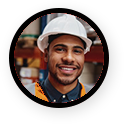
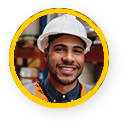
small screen optimise

Changed region(s): [[0.0726, 0.0484, 0.8952, 0.8952]]

diff --git a/index.html b/index.html
@@ -224,7 +224,7 @@
                       <br><br>
                       With a focus on excellence, professionalism, and customer satisfaction, we bring your visions to life, ensuring every project reflects craftsmanship and attention to detail.
                     </p>
-                    <div class="slider-btn mt-40">
+                    <div class="slider-btn readers' mt-40">
                       <a
                         href="#"
                         class="btn ss-btn"
@@ -1735,8 +1735,8 @@ At Nkways Home Improvement and Maintenance, quality is at the heart of everythin
           <div class="row">
             <div class="col-12">
               <div class="copyright-text text-center">
-                <p>&copy; Copyright by Nkways Homes | Designed by <a href="https://postiview.com/">PostiView</a></p>
-                <!-- <p>&copy; Copyright by Nkways Homes | Designed by <a href="https://postiview.com/">PostiView</a></p> -->
+                <p>&copy; Copyright by Nkways Homes | Designed by <a href="https://postiview.com/" target="_blank">PostiView</a></p>
+                <!-- <p>&copy; Copyright by Nkways Homes | Designed by <a href="https://postiview.com/" target="_blank">PostiView</a></p> -->
               </div>
             </div>
           </div>

diff --git a/flooring.html b/flooring.html
@@ -214,7 +214,7 @@
                   <h2>Elegant Flooring Upgrades </h2>
                 </div>
                 <nav aria-label="breadcrumb">
-                  <ol class="breadcrumb">
+                  <ol class="breadcrumb" >
                     <li class="breadcrumb-item">
                       <a href="index.html">Home</a>
                     </li>
@@ -628,7 +628,7 @@
           <div class="row">
             <div class="col-12">
               <div class="copyright-text text-center">
-                <p>&copy; Copyright by Nkways Homes | Designed by <a href="https://postiview.com/">PostiView</a></p>
+                <p>&copy; Copyright by Nkways Homes | Designed by <a href="https://postiview.com/" target="_blank">PostiView</a></p>
               </div>
             </div>
           </div>

diff --git a/css/style.css b/css/style.css
@@ -6832,4 +6832,36 @@ color: #181f3b !important;
     bottom: 100px;
     right: 10px;
   }
+ 
+}
+
+@media (max-width: 320px) {
+  #contact-form4 input {
+    width: 70%;
+  }
+  .slider-btn {
+    margin-bottom: 50px !important;
+}
+.slider-content > span {
+  margin-top: 30px !important;
+}
+.readers {
+  margin-top: -32px !important;
+}
+
+.slider-bg {
+  background-position: left !important;
+}
+#floating_btn {
+  bottom: 89px;
+  right: 18px;
+  width: 47px;
+  height: 60px;
+}
+}
+@media (max-width: 768px) {
+  .contact-bg {
+    background-position: left !important;
+}
+
 }

diff --git a/blog.html b/blog.html
@@ -1084,7 +1084,7 @@
           <div class="row">
             <div class="col-12">
               <div class="copyright-text text-center">
-                <p>&copy; Copyright by Nkways Homes | Designed by <a href="https://postiview.com/">PostiView</a></p>
+                <p>&copy; Copyright by Nkways Homes | Designed by <a href="https://postiview.com/" target="_blank">PostiView</a></p>
               </div>
             </div>
           </div>

diff --git a/index-2.html b/index-2.html
@@ -1373,7 +1373,7 @@
           <div class="row">
             <div class="col-12">
               <div class="copyright-text text-center">
-                <p>&copy; Copyright by Nkways Homes | Designed by <a href="https://postiview.com/">PostiView</a></p>
+                <p>&copy; Copyright by Nkways Homes | Designed by <a href="https://postiview.com/" target="_blank">PostiView</a></p>
               </div>
             </div>
           </div>

diff --git a/index-3.html b/index-3.html
@@ -1717,7 +1717,7 @@
           <div class="row">
             <div class="col-12">
               <div class="copyright-text text-center">
-                <p>&copy; Copyright by Nkways Homes | Designed by <a href="https://postiview.com/">PostiView</a></p>
+                <p>&copy; Copyright by Nkways Homes | Designed by <a href="https://postiview.com/" target="_blank">PostiView</a></p>
               </div>
             </div>
           </div>

diff --git a/about.html b/about.html
@@ -801,7 +801,7 @@
           <div class="row">
             <div class="col-12">
               <div class="copyright-text text-center">
-                <p>&copy; Copyright by Nkways Homes | Designed by <a href="https://postiview.com/">PostiView</a></p>
+                <p>&copy; Copyright by Nkways Homes | Designed by <a href="https://postiview.com/" target="_blank">PostiView</a></p>
               </div>
             </div>
           </div>

diff --git a/bathrooms.html b/bathrooms.html
@@ -625,7 +625,7 @@
           <div class="row">
             <div class="col-12">
               <div class="copyright-text text-center">
-                <p>&copy; Copyright by Nkways Homes | Designed by <a href="https://postiview.com/">PostiView</a></p>
+                <p>&copy; Copyright by Nkways Homes | Designed by <a href="https://postiview.com/" target="_blank">PostiView</a></p>
               </div>
             </div>
           </div>

diff --git a/benefits-of-renovating-your-bathroom.html b/benefits-of-renovating-your-bathroom.html
@@ -877,7 +877,7 @@
           <div class="row">
             <div class="col-12">
               <div class="copyright-text text-center">
-                <p>&copy; Copyright by Nkways Homes | Designed by <a href="https://postiview.com/">PostiView</a></p>
+                <p>&copy; Copyright by Nkways Homes | Designed by <a href="https://postiview.com/" target="_blank">PostiView</a></p>
               </div>
             </div>
           </div>

diff --git a/blog-details.html b/blog-details.html
@@ -972,7 +972,7 @@
           <div class="row">
             <div class="col-12">
               <div class="copyright-text text-center">
-                <p>&copy; Copyright by Nkways Homes | Designed by <a href="https://postiview.com/">PostiView</a></p>
+                <p>&copy; Copyright by Nkways Homes | Designed by <a href="https://postiview.com/" target="_blank">PostiView</a></p>
               </div>
             </div>
           </div>

diff --git a/building.html b/building.html
@@ -626,7 +626,7 @@
           <div class="row">
             <div class="col-12">
               <div class="copyright-text text-center">
-                <p>&copy; Copyright by Nkways Homes | Designed by <a href="https://postiview.com/">PostiView</a></p>
+                <p>&copy; Copyright by Nkways Homes | Designed by <a href="https://postiview.com/" target="_blank">PostiView</a></p>
               </div>
             </div>
           </div>

diff --git a/carpentry.html b/carpentry.html
@@ -628,7 +628,7 @@
           <div class="row">
             <div class="col-12">
               <div class="copyright-text text-center">
-                <p>&copy; Copyright by Nkways Homes | Designed by <a href="https://postiview.com/">PostiView</a></p>
+                <p>&copy; Copyright by Nkways Homes | Designed by <a href="https://postiview.com/" target="_blank">PostiView</a></p>
               </div>
             </div>
           </div>
